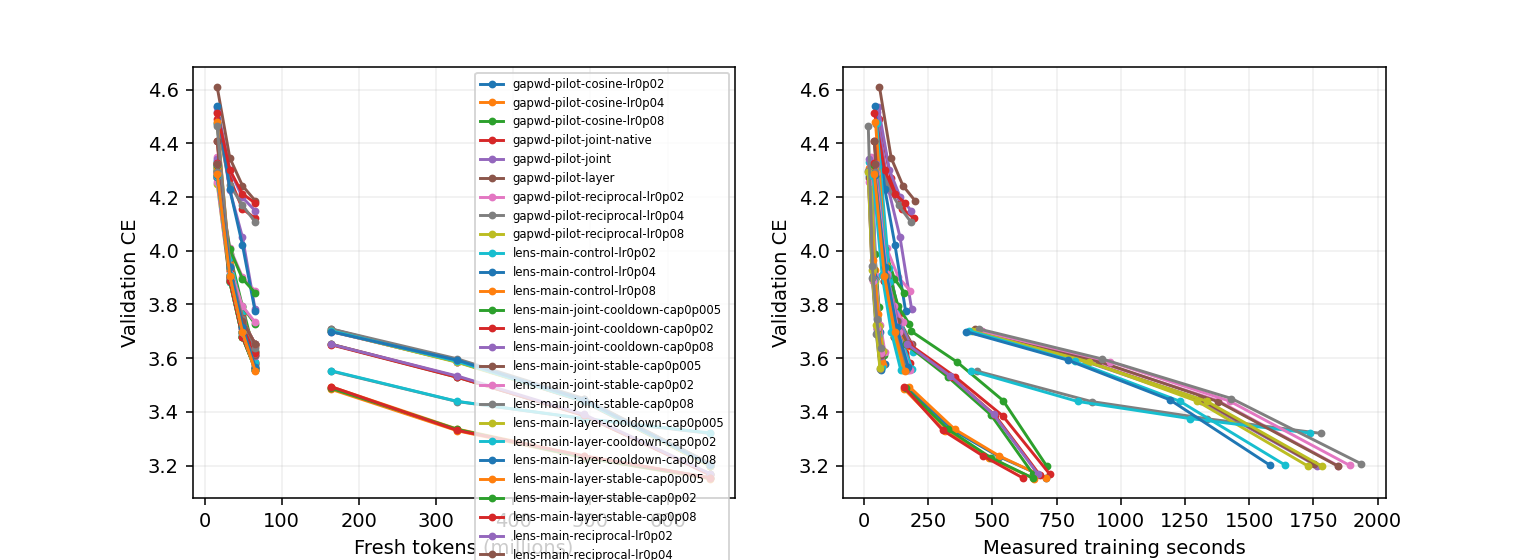
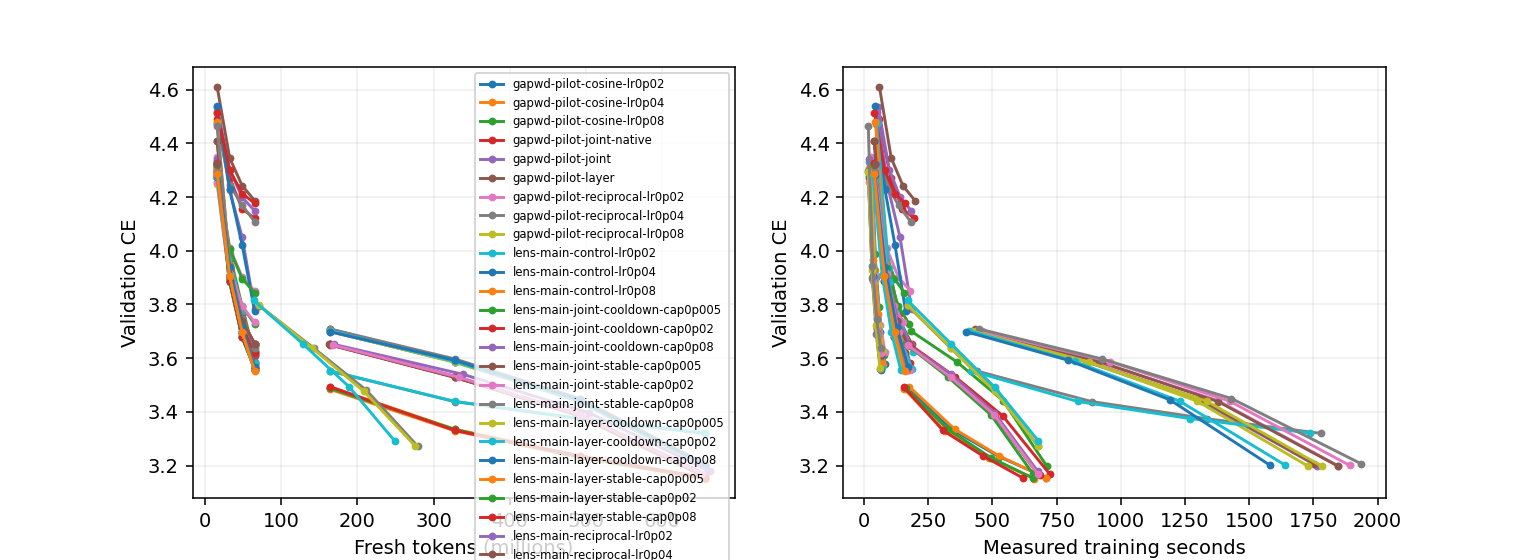
Update live Muon experiment results

diff --git a/research/unnormalized_muon/DETAILED_EVAL.md b/research/unnormalized_muon/DETAILED_EVAL.md
@@ -34,6 +34,7 @@ All results use the B300 fork model/data/tokenizer and a fixed tuning-validation
 | normalized WD standard 0 | 0.04 | 20000 | 3.321643 | 1734.89 | 1813.94 |
 | normalized WD standard 0 | 0.02 | 20000 | 3.155148 | 710.04 | 770.45 |
 | normalized WD standard 0 | 0.04 | 20000 | 3.155272 | 706.85 | 762.24 |
+| normalized WD standard 0 | 0.0282843 | 20225 | 3.178579 | 676.45 | 761.22 |
 
 ## Weight decay search
 
@@ -592,4 +593,25 @@ Timing seconds: direction=68.799, reference=15.065, candidates=14.671, auxiliary
 um-lens-startl-layer-stable-1: accepted 2000/2000; skipped nonpositive blocks 226; median actual eta 0.005; median gamma 0.000918749; median L 1e-16; median trials 1; max measured spectral ratio lambda*||W||op=0.309576. Native approximate NS can violate the ideal unit-oracle premise; this is recorded, not hidden.
 
 Timing seconds: direction=60.805, reference=14.714, candidates=14.296, auxiliary=1.824.
+
+| um-lens-time-control-s10 | cooldown native | 0.1837499 | 20225 | 3.178579 | 0 | 761.22 |
+| um-lens-time-control-s11 | cooldown native | 0.1837499 | 19762 | 3.169040 | 0 | 737.06 |
+| um-lens-time-control-s12 | cooldown native | 0.1837499 | 19890 | 3.169580 | 0 | 732.06 |
+| um-lens-time-layer-s10 | layer native | 0.1837499 | 8518 | 3.272616 | 17036 | 771.10 |
+
+um-lens-time-layer-s10: accepted 8518/8518; skipped nonpositive blocks 312; median actual eta 0.00798851; median gamma 0.00146789; median L 1e-16; median trials 1; max measured spectral ratio lambda*||W||op=0.319904. Native approximate NS can violate the ideal unit-oracle premise; this is recorded, not hidden.
+
+Timing seconds: direction=227.194, reference=61.903, candidates=60.476, auxiliary=7.953.
+
+| um-lens-time-layer-s11 | layer native | 0.1837499 | 8406 | 3.274756 | 16812 | 771.26 |
+
+um-lens-time-layer-s11: accepted 8406/8406; skipped nonpositive blocks 262; median actual eta 0.00796131; median gamma 0.00146289; median L 1e-16; median trials 1; max measured spectral ratio lambda*||W||op=0.313068. Native approximate NS can violate the ideal unit-oracle premise; this is recorded, not hidden.
+
+Timing seconds: direction=229.890, reference=61.673, candidates=60.315, auxiliary=7.876.
+
+| um-lens-time-layer-s12 | layer native | 0.1837499 | 7594 | 3.293004 | 15188 | 770.03 |
+
+um-lens-time-layer-s12: accepted 7594/7594; skipped nonpositive blocks 287; median actual eta 0.00803841; median gamma 0.00147706; median L 1e-16; median trials 1; max measured spectral ratio lambda*||W||op=0.308425. Native approximate NS can violate the ideal unit-oracle premise; this is recorded, not hidden.
+
+Timing seconds: direction=272.800, reference=57.289, candidates=55.597, auxiliary=6.868.
 

diff --git a/research/unnormalized_muon/RESULTS.md b/research/unnormalized_muon/RESULTS.md
@@ -132,6 +132,8 @@ One B300 per job. CE is token cross-entropy (nats); lower is better. Rows with d
 | um-lens-startl-layer-cooldown-1 | Clean GapWD layer uniform v2 c-in-Q armijo cap0.005/cooldown fixed_lambda=0.18375 WD:standard(0) | 2000 | 0 | 0.04 | 3.562346 | 1.079948 | — | 241.40 |
 | um-lens-startl-layer-stable-0 | Clean GapWD layer uniform v2 c-in-Q armijo cap0.005/stable fixed_lambda=0.18375 WD:standard(0) | 2000 | 0 | 0.04 | 3.654067 | 1.107714 | — | 247.29 |
 | um-lens-startl-layer-stable-1 | Clean GapWD layer uniform v2 c-in-Q armijo cap0.005/stable fixed_lambda=0.18375 WD:standard(0) | 2000 | 0 | 0.04 | 3.653376 | 1.107509 | — | 237.19 |
+| um-lens-time-control-s11 | Clean Native cooldown v2 c-in-Q time679.0s fixed_lambda=0.18375 WD:standard(0) | 19762 | 11 | 0.0282843 | 3.169040 | 0.960766 | 3.113390 | 737.06 |
+| um-lens-time-control-s12 | Clean Native cooldown v2 c-in-Q time679.0s fixed_lambda=0.18375 WD:standard(0) | 19890 | 12 | 0.0282843 | 3.169580 | 0.960944 | 3.116667 | 732.06 |
 | um-screen-00-0-native-lr0p005 | Native cooldown | 2000 | 0 | 0.005 | 3.734536 | 1.132046 | — | 145.49 |
 | um-screen-00-1-scaled-lr0p0002 | Unnormalized cooldown | 2000 | 0 | 0.0002 | 4.818060 | 1.460343 | — | 153.42 |
 | um-screen-00-2-constant-lr0p0002 | Unnormalized constant | 2000 | 0 | 0.0002 | 4.581043 | 1.388601 | — | 151.98 |
@@ -187,7 +189,7 @@ One B300 per job. CE is token cross-entropy (nats); lower is better. Rows with d
 
 Review of um-fw-diagnostic-001: Compiled training f0 compared against functional candidate losses; vanishing-step mismatch2-4e-5 exceeded tolerance, leading to curvature1e186 and45 skipped steps. Replaced by paired functional reference and candidates; retain all645 measured forwards and GPUcost.
 
-Conservative charged/reserved total: 19.4489 / 30 B300 GPU-hours. Includes prior smoke/failed attempts and current maximum-duration reservations. Six-slot central queue; one B300 per run.
+Conservative charged/reserved total: 21.6561 / 30 B300 GPU-hours. Includes prior smoke/failed attempts and current maximum-duration reservations. Six-slot central queue; one B300 per run.
 
 CLEAN geometry disables row equilibration and NorMuon. Original clean runs use zero matrix decay; new WD runs explicitly label standard or cautious decay and their CLI coefficient. Same five Polar Express steps and Frobenius correction; scale by the per-matrix nonnegative FP32 inner product of the native Nesterov input with the NS/Frobenius direction. Shape scaling occurs once outside the scalar. Legacy rows retain production extras and must be compared separately. Constant schedule changes only matrix LR; auxiliary schedules and momentum remain matched.
 

diff --git a/research/unnormalized_muon/FW_LENS_RESULTS.md b/research/unnormalized_muon/FW_LENS_RESULTS.md
@@ -82,6 +82,12 @@ Token-based schedule curves are descriptive. Independently scheduled equal-time 
 | um-lens-startl-layer-cooldown-1 | layer-cooldown | 2000 updates | 0 | 3.562346 | — | 155.110 | 4000 | 40.323 | 241.40 |
 | um-lens-startl-layer-stable-0 | layer-stable | 2000 updates | 0 | 3.654067 | — | 179.069 | 4000 | 31.795 | 247.29 |
 | um-lens-startl-layer-stable-1 | layer-stable | 2000 updates | 0 | 3.653376 | — | 169.669 | 4000 | 31.552 | 237.19 |
+| um-lens-time-control-s10 | control | 678.993s | 10 | 3.178579 | 3.120702 | 679.026 | 0 | 35.435 | 761.22 |
+| um-lens-time-control-s11 | control | 678.993s | 11 | 3.169040 | 3.113390 | 678.994 | 0 | 24.978 | 737.06 |
+| um-lens-time-control-s12 | control | 678.993s | 12 | 3.169580 | 3.116667 | 679.008 | 0 | 23.341 | 732.06 |
+| um-lens-time-layer-s10 | layer-cooldown | 678.993s | 10 | 3.272616 | 3.218791 | 679.048 | 17036 | 39.118 | 771.10 |
+| um-lens-time-layer-s11 | layer-cooldown | 678.993s | 11 | 3.274756 | 3.218212 | 679.060 | 16812 | 39.115 | 771.26 |
+| um-lens-time-layer-s12 | layer-cooldown | 678.993s | 12 | 3.293004 | 3.238780 | 679.002 | 15188 | 39.125 | 770.03 |
 
 ## Adaptive diagnostics and contraction
 
@@ -141,5 +147,8 @@ Contraction is the actual coefficient product_t(1-lambda*eta_l,t), represented i
 | um-lens-startl-layer-cooldown-1 | 2000/2000 | 0 | 0.0037942 | 0.00069719 | 1e-16 | 1 | -1.253 to -1.229 | 0.32947 |
 | um-lens-startl-layer-stable-0 | 2000/2000 | 0 | 0.005 | 0.00091875 | 1e-16 | 1 | -1.82 to -1.801 | 0.306437 |
 | um-lens-startl-layer-stable-1 | 2000/2000 | 0 | 0.005 | 0.00091875 | 1e-16 | 1 | -1.82 to -1.793 | 0.309576 |
+| um-lens-time-layer-s10 | 8518/8518 | 0 | 0.0079885 | 0.0014679 | 1e-16 | 1 | -10.95 to -10.61 | 0.319904 |
+| um-lens-time-layer-s11 | 8406/8406 | 0 | 0.0079613 | 0.0014629 | 1e-16 | 1 | -10.78 to -10.55 | 0.313068 |
+| um-lens-time-layer-s12 | 7594/7594 | 0 | 0.0080384 | 0.0014771 | 1e-16 | 1 | -9.799 to -9.586 | 0.308425 |
 
 Curvature values in Armijo variants parameterize proposals; their acceptance is NOT a certificate of the quadratic upper model. Final spectral ratios are lambda*||W_l||op/c_l; native approximate NS output is not certified to have unit spectral norm. Initial/final iterate feasibility alone does not certify oracle accuracy. Cold two-second clock checks intentionally permit one-update overshoot; do not use them as quality endpoints.
